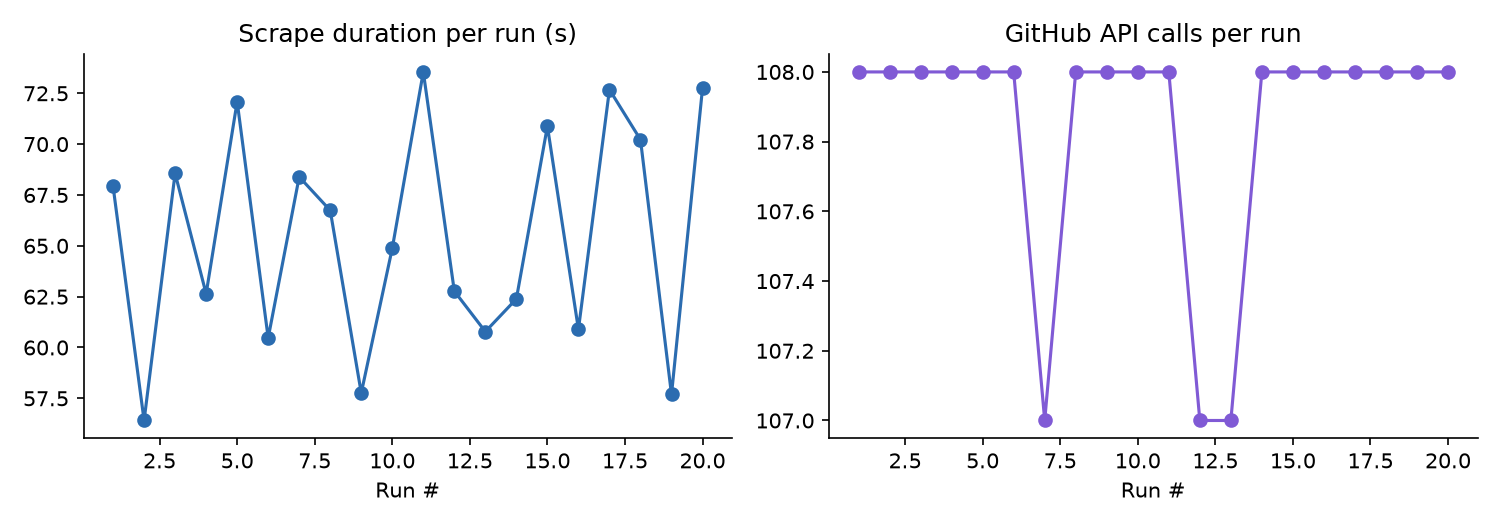
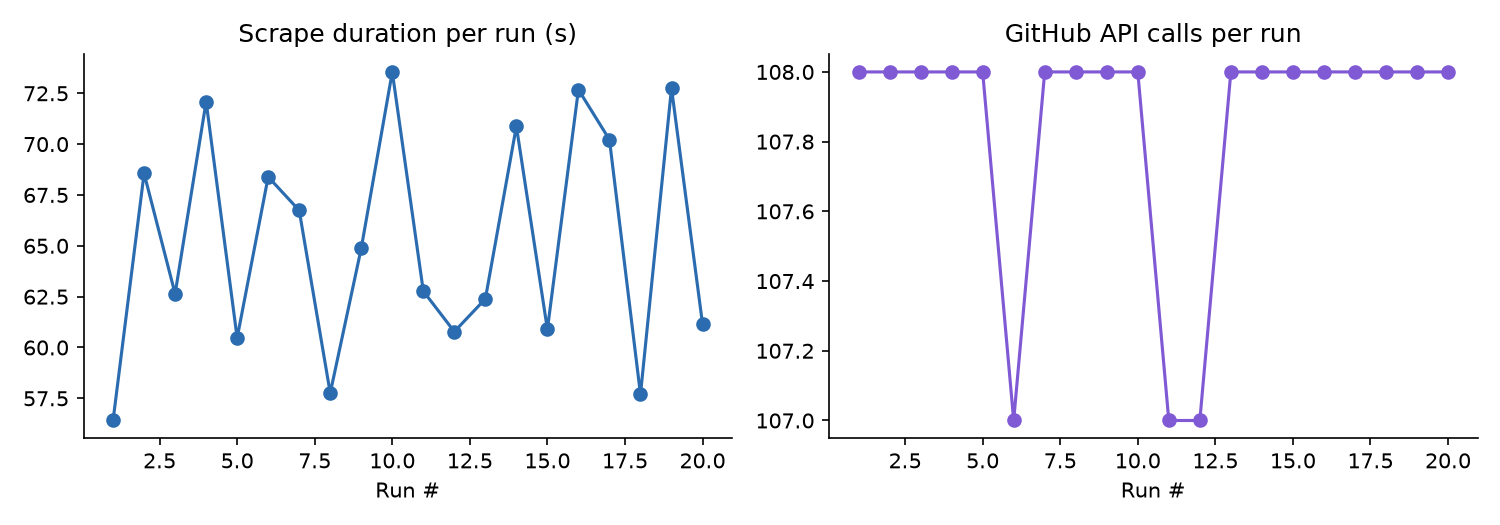
Weekly issue tracker refresh

diff --git a/README.md b/README.md
@@ -81,7 +81,7 @@ See [CONTRIBUTING.md](CONTRIBUTING.md) for the full contributor workflow — inc
 
 <!-- TRACKER:START -->
 
-_Last updated: 2026-07-29 18:17 UTC_
+_Last updated: 2026-07-29 18:41 UTC_
 
 _Tracking **18** upstream repos, **389** relevant open issues._
 
@@ -295,7 +295,7 @@ _Tracking **18** upstream repos, **389** relevant open issues._
 
 <!-- METRICS:START -->
 
-_Last run: 2026-07-29 18:16 UTC, took **72.8s**, **108** GitHub API calls, **4872/5000** rate limit remaining._
+_Last run: 2026-07-29 18:40 UTC, took **61.2s**, **108** GitHub API calls, **4765/5000** rate limit remaining._
 
 ![Scrape metrics trend](assets/metrics_trend.png)
 
